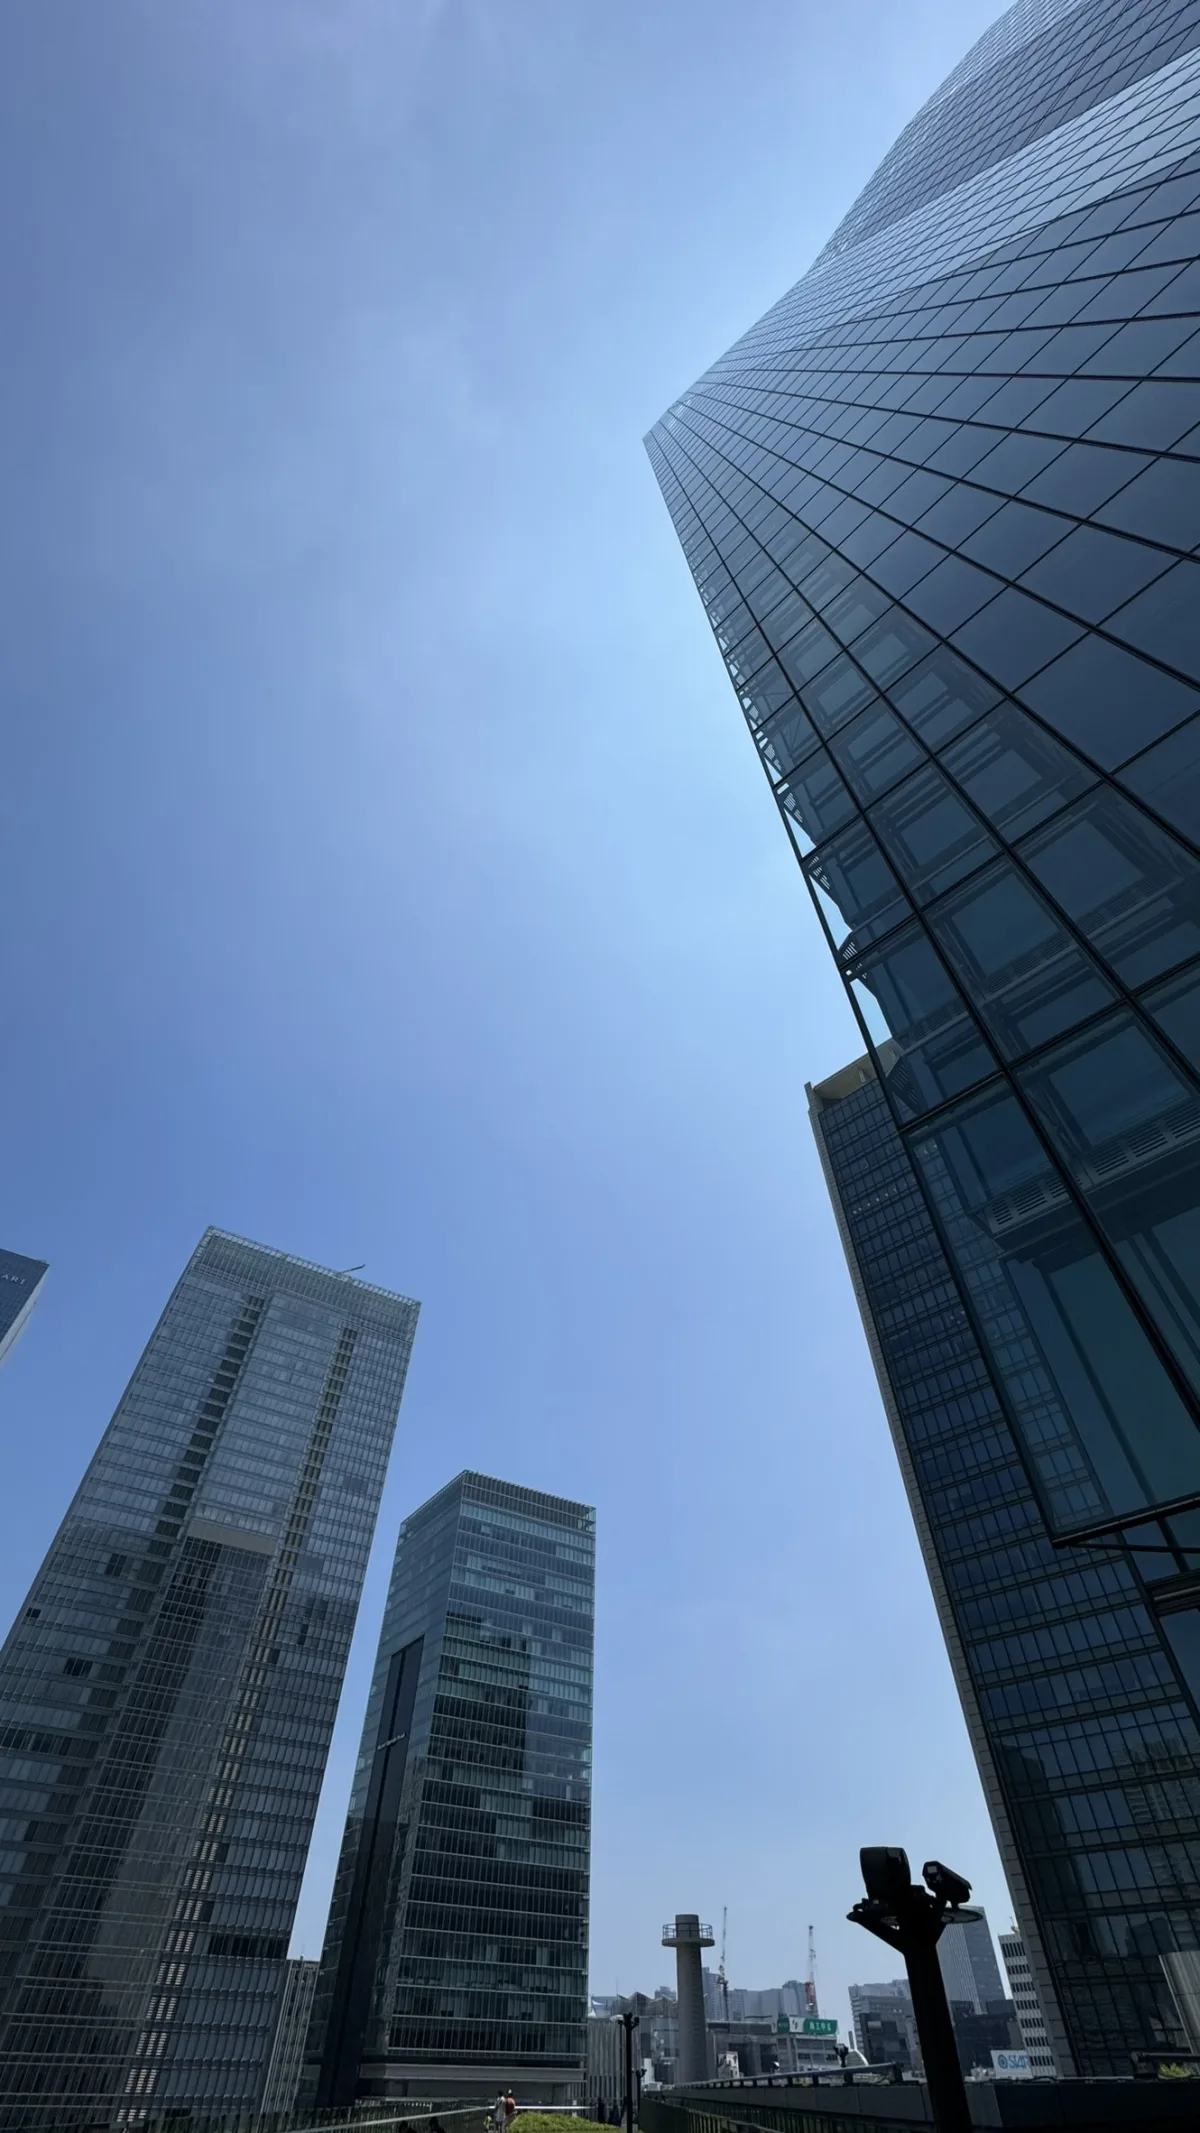
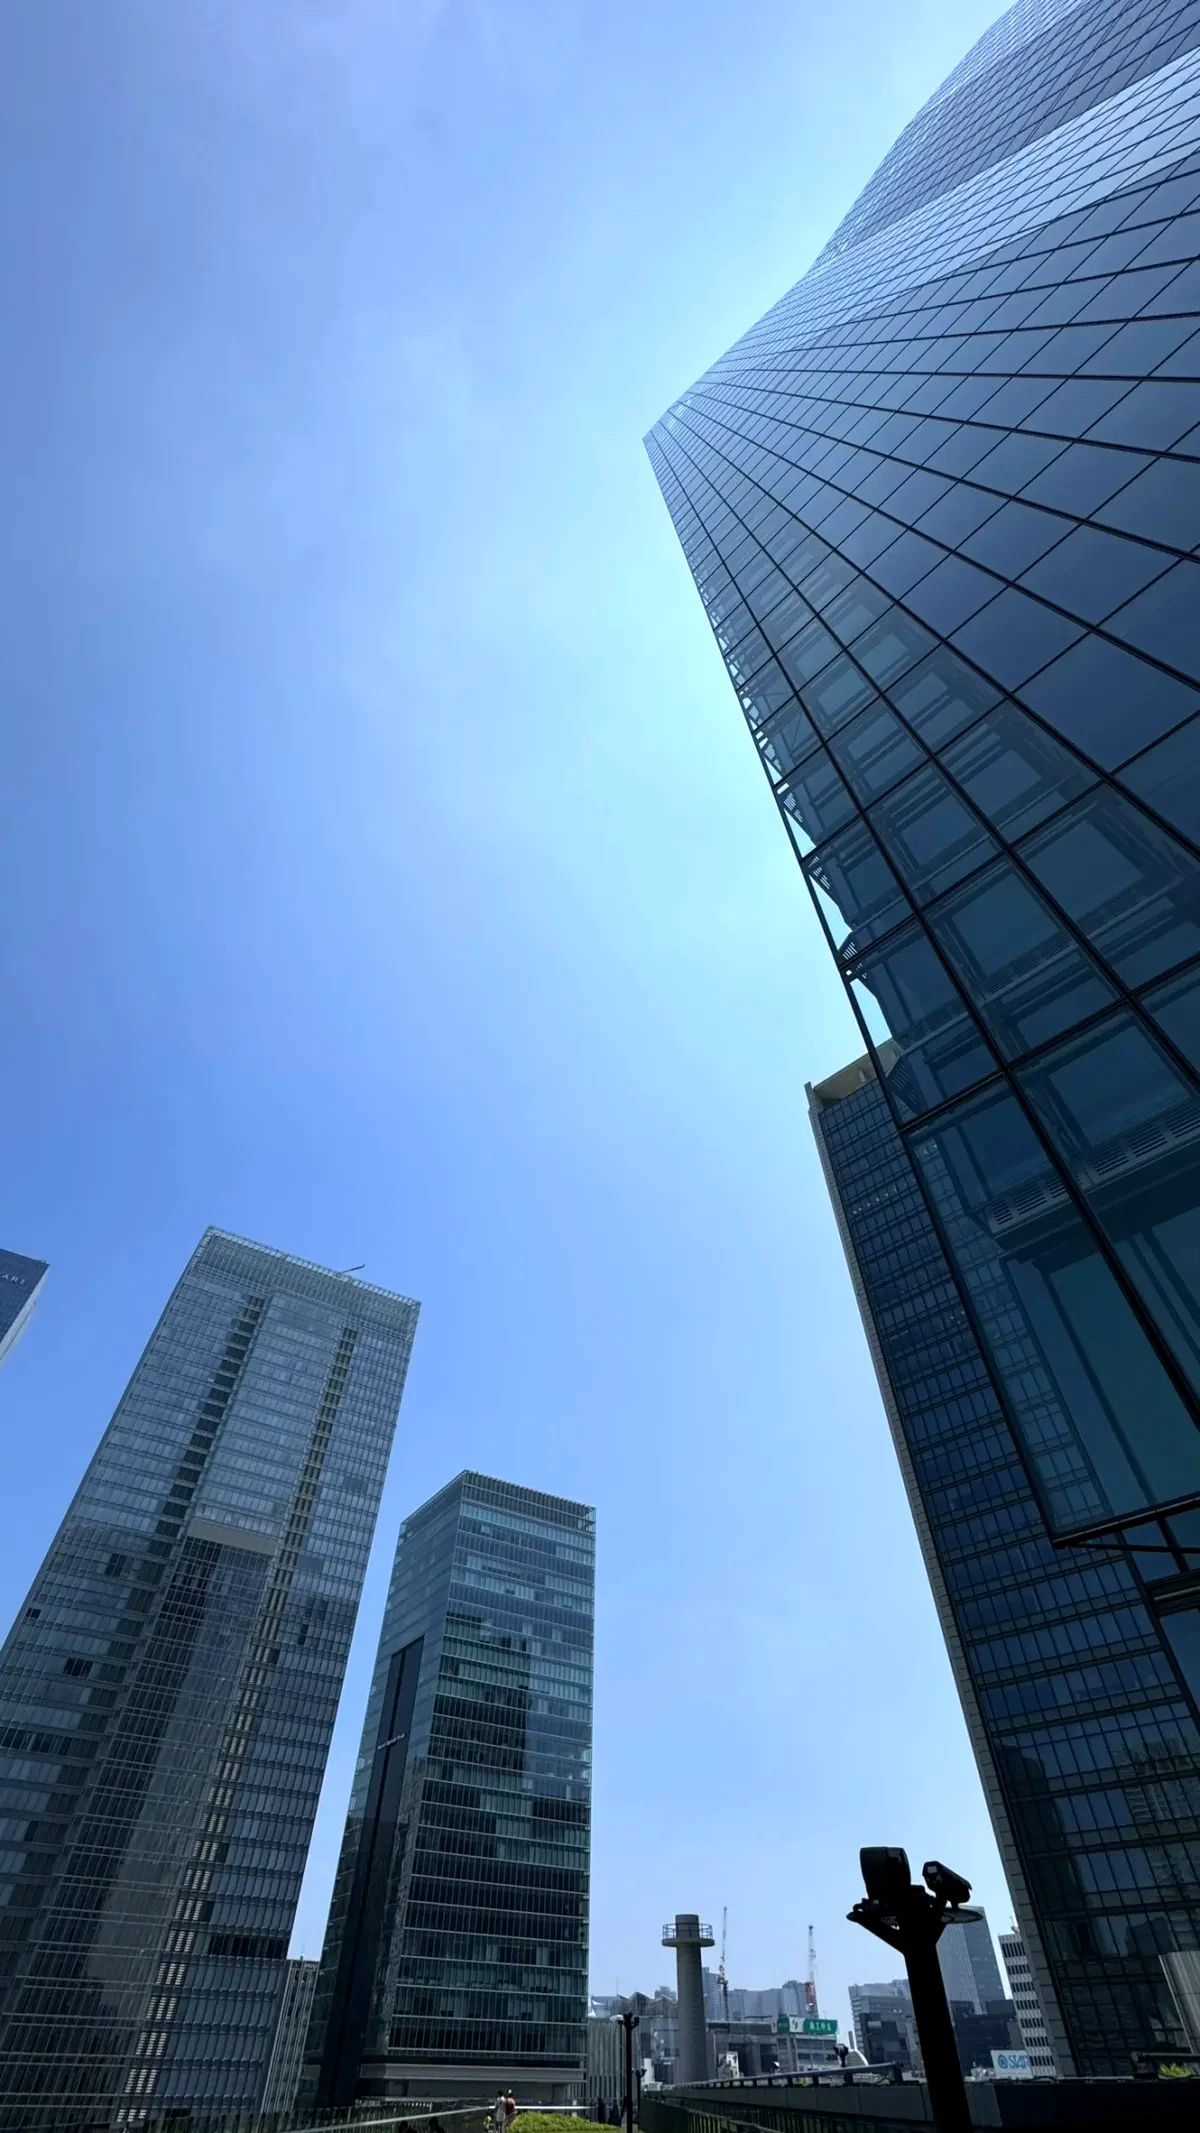
mitsysヒーロー2枚目を明るく+空を見せる構図に、各見出しを1行+説明文の縦並びに
- hero-new-02.webp を明るさ/彩度補正し、クロップ位置を上げて青空を大きく表示
- .section-head / .challenge-message を縦積みにし、タイトルを1行・説明文を下段へ

diff --git a/mock-sites/mitsys-renewal/index.html b/mock-sites/mitsys-renewal/index.html
@@ -321,7 +321,7 @@
     will-change: opacity, transform;
   }
   .hero-slide:nth-child(1) { animation-name: heroSlideFirst; animation-delay: 0s; transform-origin: 52% 50%; }
-  .hero-slide:nth-child(2) { animation-delay: 8s; transform-origin: 58% 82%; background-position: 54% 82%; }
+  .hero-slide:nth-child(2) { animation-delay: 8s; transform-origin: 54% 32%; background-position: 54% 30%; }
   .hero-slide:nth-child(3) { animation-delay: 16s; transform-origin: 52% 50%; }
   .hero-slide:nth-child(4) { animation-delay: 24s; transform-origin: 45% 48%; }
   .hero-slide:nth-child(5) { animation-delay: 32s; transform-origin: 55% 50%; }
@@ -979,13 +979,13 @@
   }
   .section-head {
     display: grid;
-    grid-template-columns: minmax(0, 1fr) minmax(360px, 0.78fr);
-    gap: 60px;
-    align-items: end;
+    grid-template-columns: 1fr;
+    gap: 18px;
+    align-items: start;
     margin-bottom: 46px;
   }
   .section-head h2 {
-    max-width: 760px;
+    max-width: none;
   }
   .label {
     font-family: var(--font-mono);
@@ -1022,11 +1022,11 @@
     background: rgba(19, 47, 33, 0.94);
     color: #fff;
     border-radius: 14px 14px 0 0;
-    padding: 24px 28px;
+    padding: 28px 28px;
     display: grid;
-    grid-template-columns: minmax(0, 0.8fr) minmax(0, 1.2fr);
-    gap: 28px;
-    align-items: center;
+    grid-template-columns: 1fr;
+    gap: 14px;
+    align-items: start;
   }
   .challenge-message h2 {
     color: #fff;
@@ -1610,6 +1610,12 @@
     .nav-svc-grid .svc-btn::after { display: none; }
   }
 
+  /* PC幅では見出しを1行に固定し、その下に説明文を表示する */
+  @media (min-width: 1041px) {
+    .section-head h2,
+    .challenge-message h2 { white-space: nowrap; }
+  }
+
   @media (max-width: 1040px) {
     .hero-inner,
     .section-head,
@@ -1642,7 +1648,7 @@
     .hero {
       background-image: url('assets/images/marunouchi/hero-new-02.webp');
       background-size: cover;
-      background-position: 56% 68%;
+      background-position: 56% 42%;
     }
     .nav { height: 68px; padding: 0 16px; }
     .brand-logo { width: 174px; }